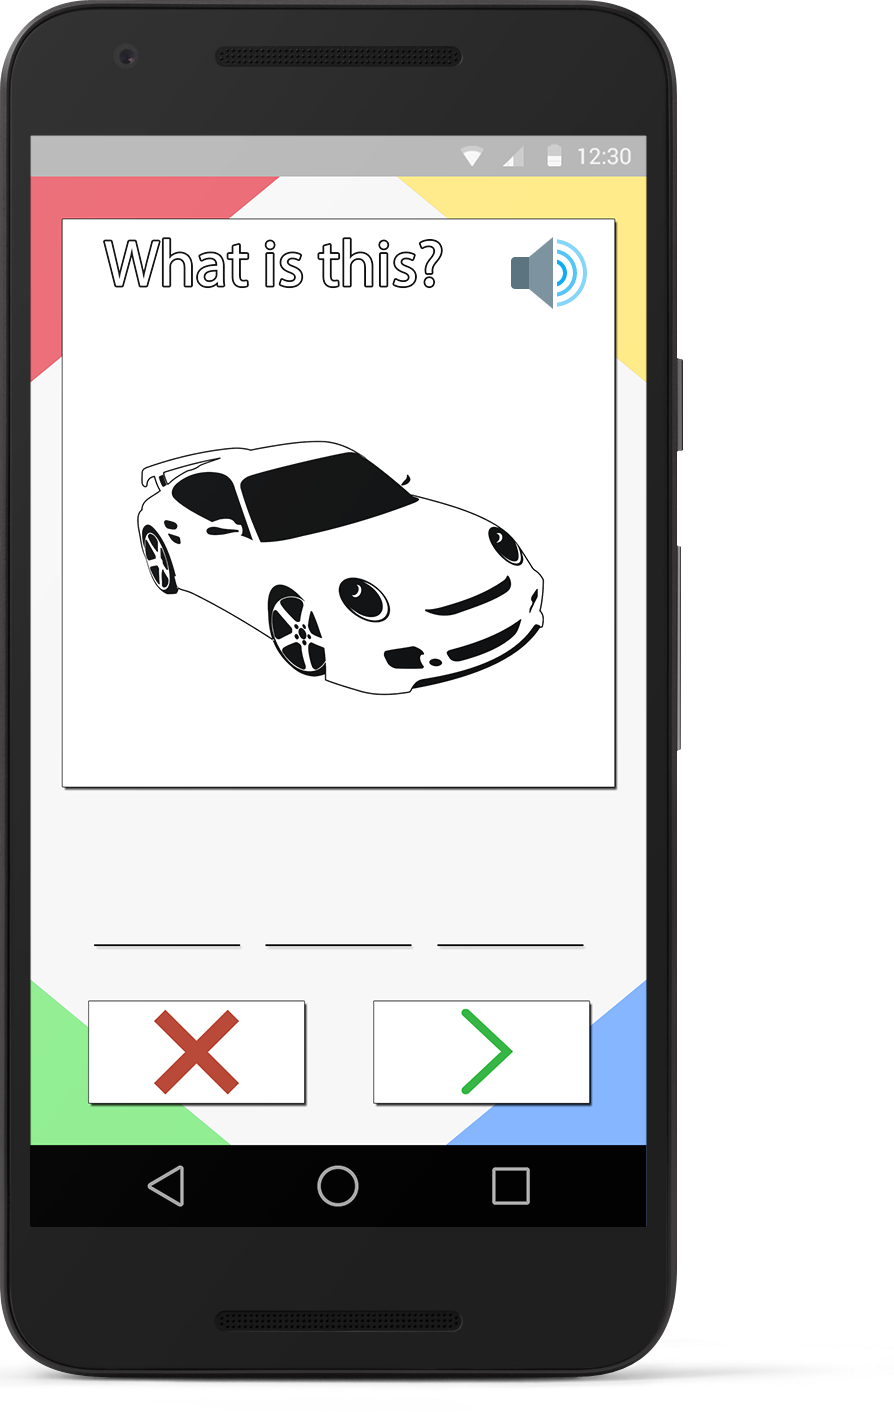
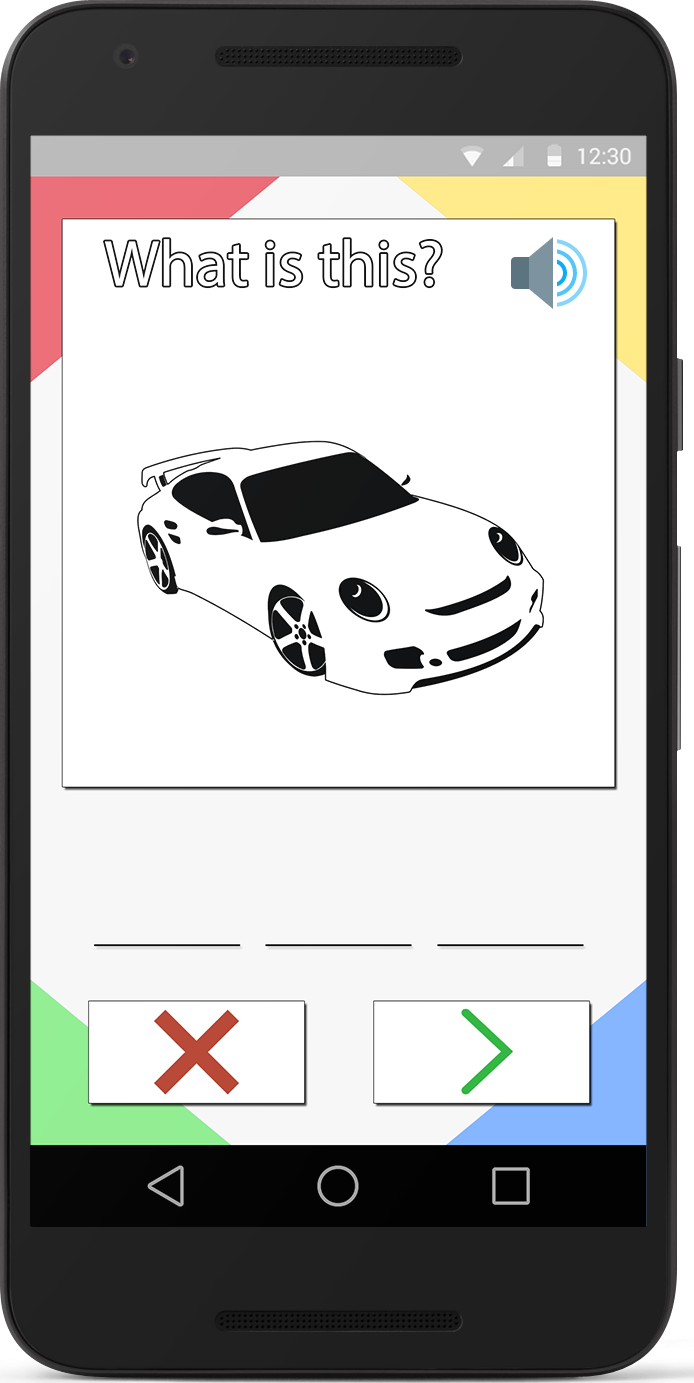
Cropped away margin at images, added text to main screen, and some other cosmetic changes

diff --git a/index.html b/index.html
@@ -26,8 +26,6 @@
               <h5>العربية</h5>
             </a>
           </div>
-
-
            <!-- <a href="index_ar.html">
               <img id="Language" src="Images\arabic_language.png" />
             </a> -->
@@ -42,7 +40,8 @@
           </div>
           <div class="app" id="lang">
             <div class="text">
-              <p>TEST</p>
+                <h5>Text text text</h5>
+              <p>TEST TEST TEST TEST TEST TEST TEST TEST TEST TEST TEST TEST TEST TEST TEST TEST TEST TEST TEST TEST TEST TEST TEST TEST TEST TEST TEST TEST TEST TEST TEST TEST TEST TEST TEST TEST TEST TEST TEST TEST TEST </p>
             </div>
             <div class="screenshot">
               <img src="Images/screenshot/langmob.png" alt="Choosing Language"/>

diff --git a/style.css b/style.css
@@ -121,13 +121,17 @@ p{
     height: auto;
     width: auto;
     background-color: white;
+    float: left;
 }
+
 .screenshot{
     float: right;
 }
 .screenshot img{
-    width: 400px;
+    width: 350px;
     height: auto;
+    margin-bottom: 15px;
+    margin-top: 10px;
 }
 #store{
     margin-bottom:20px;
@@ -205,8 +209,10 @@ p{
 /* CSS-en under blir bare kjørt dersom device width er under 650px (mobil) */
 
 @media only screen and (max-width: 650px) {
-    #Logo {
-
+    #Store img{
+        margin-left: auto;
+        margin-right: auto;
+        align-content: center;
     }
 
 }
